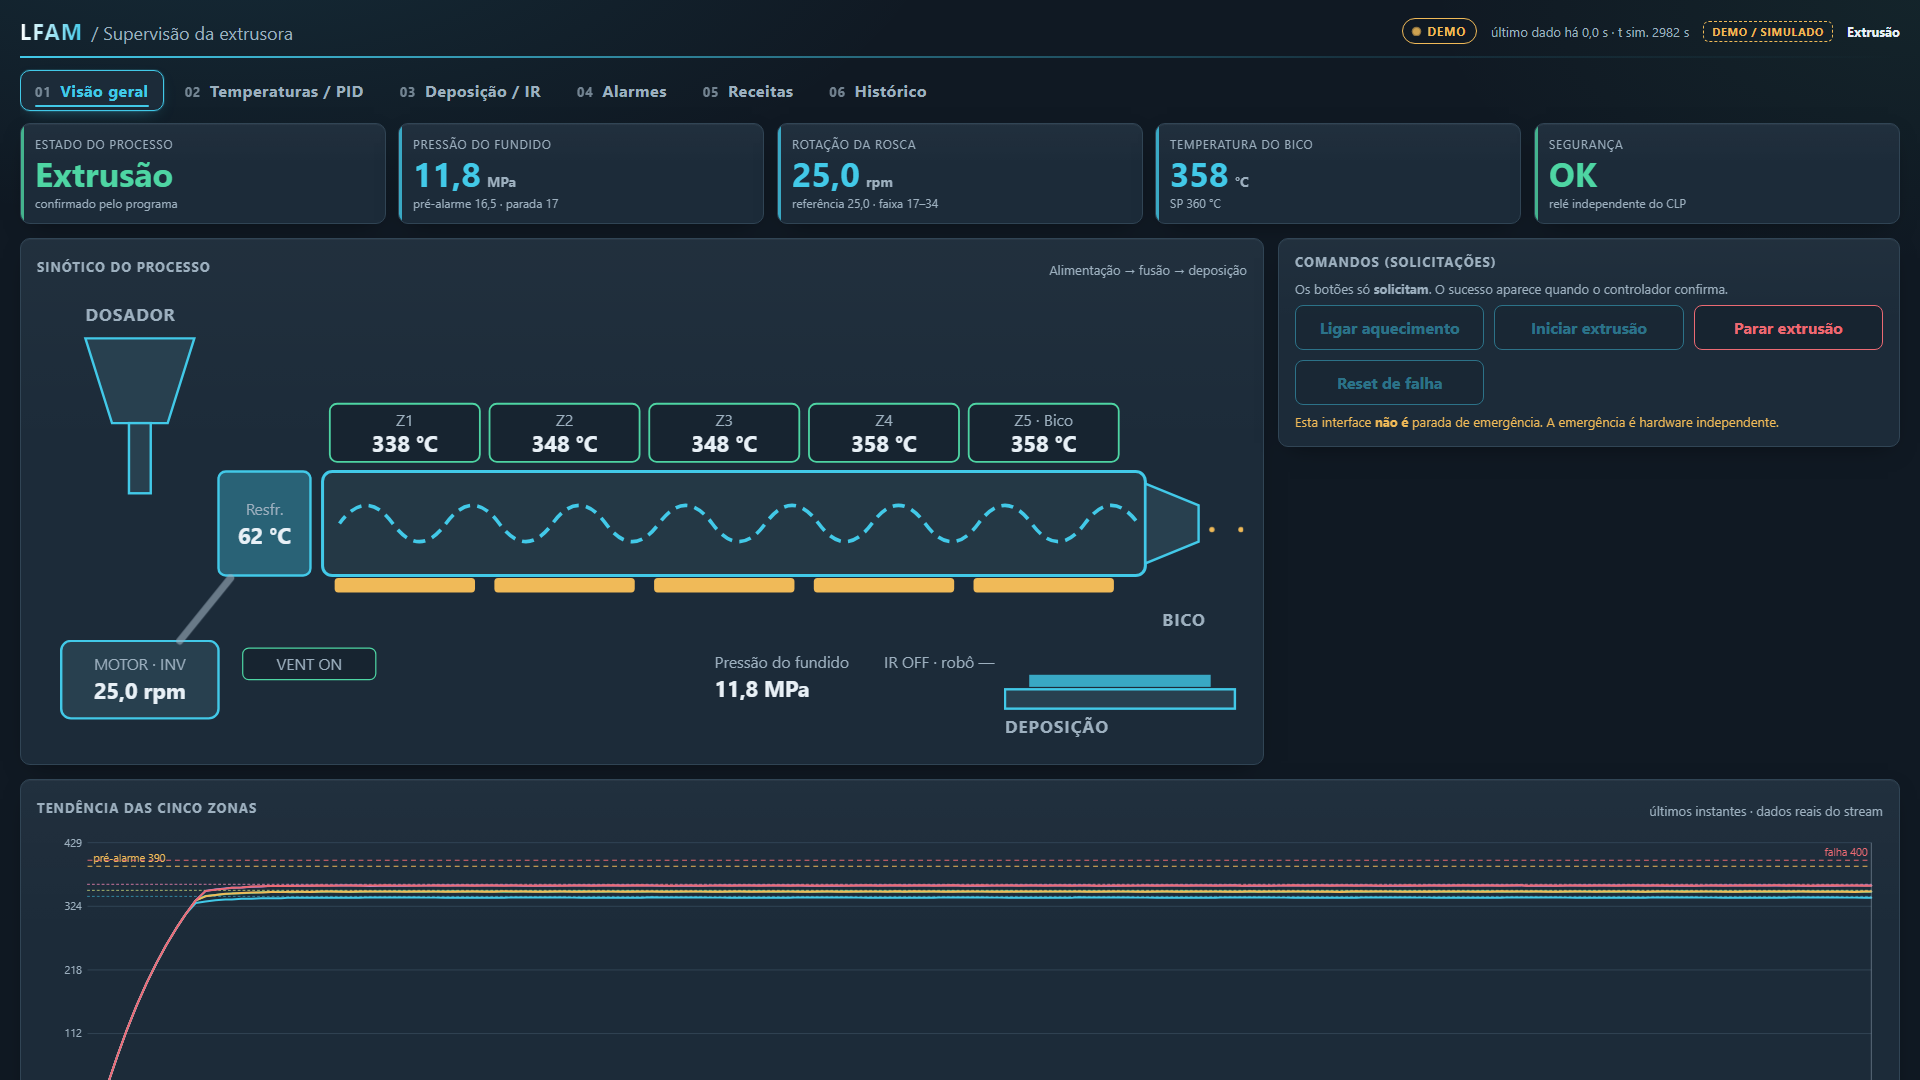
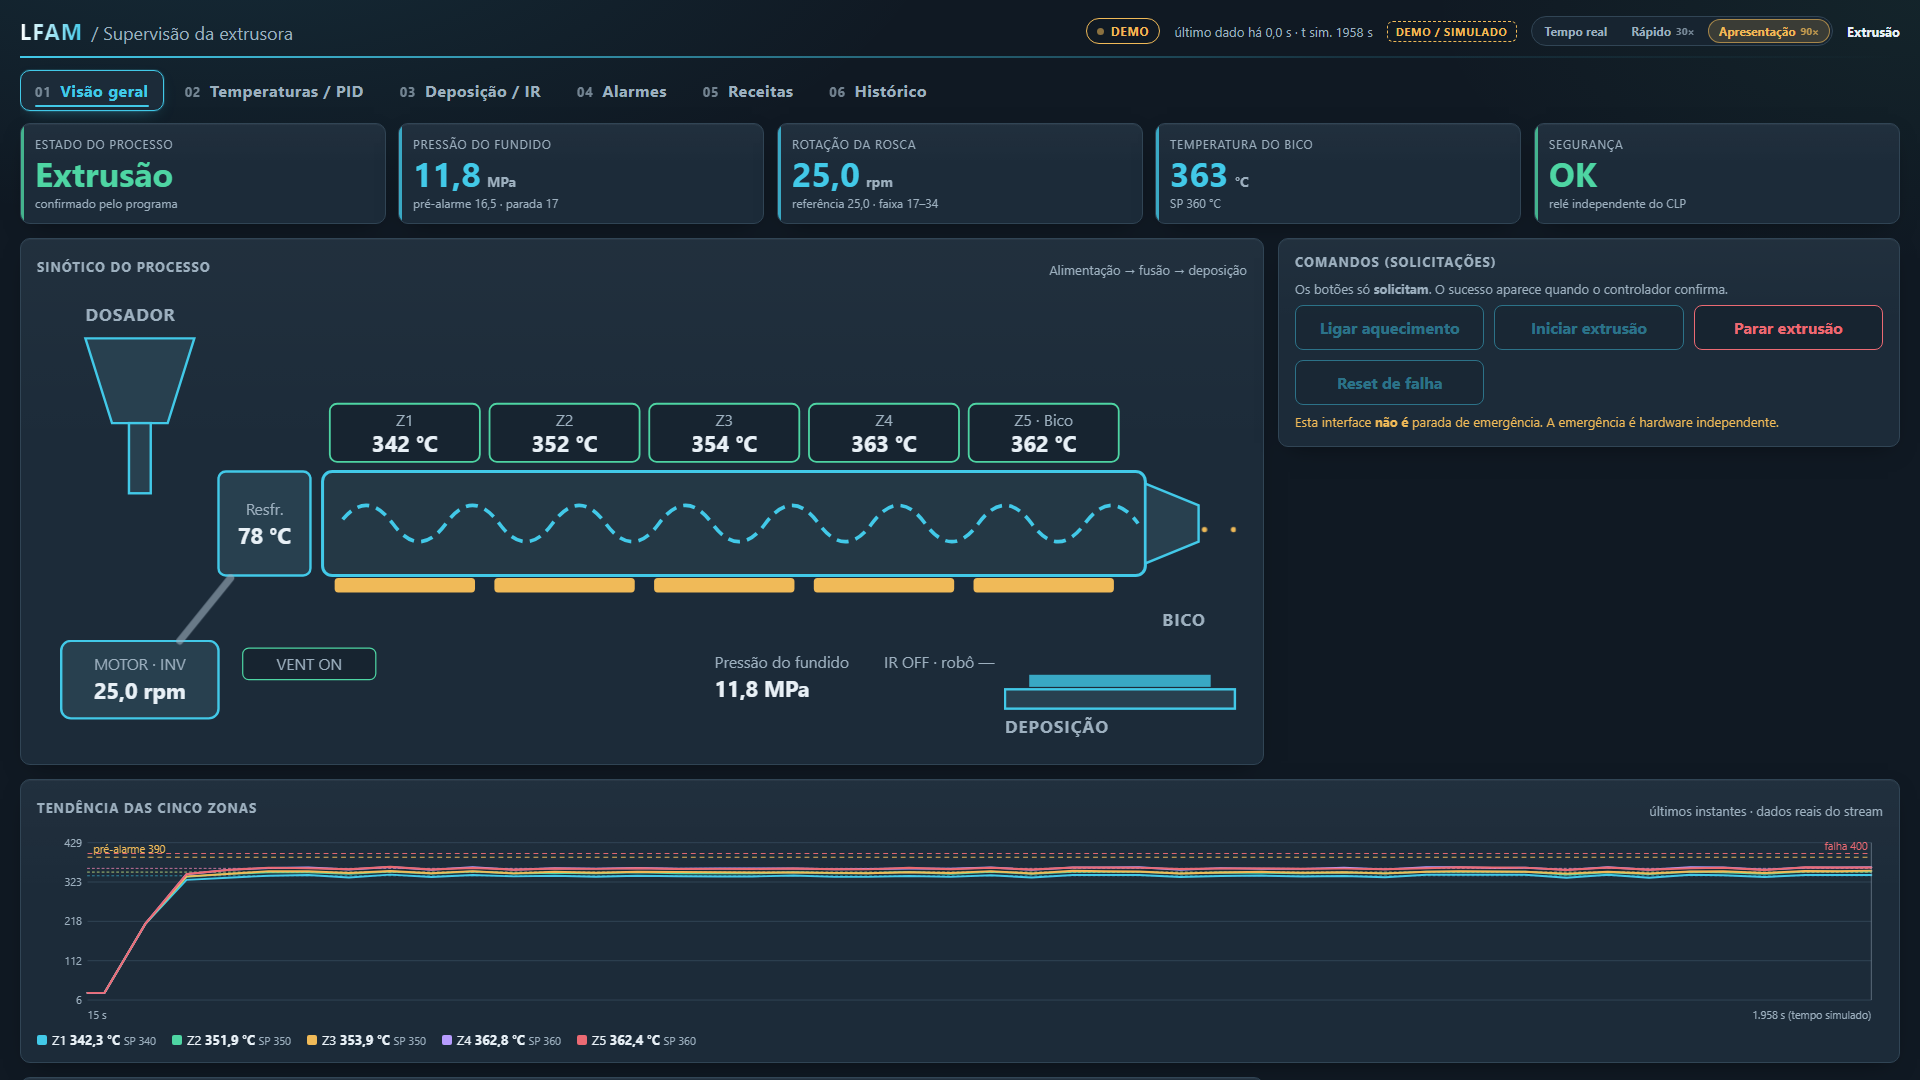
feat(scada): modo apresentacao — seletor de velocidade da simulacao (1x, 30x, 90x) no DEMO, relogio com acumulador e passos maiores; E2E e testes

diff --git a/scada/web/e2e/scada.spec.ts b/scada/web/e2e/scada.spec.ts
@@ -31,6 +31,11 @@ test("seis telas, comando confirmado pelo controlador, falha e sem comunicação
   await expect(page.locator(".link")).toHaveText("DEMO", { timeout: 15_000 });
   await expect(page.getByText("DEMO / SIMULADO").first()).toBeVisible();
 
+  // modo apresentacao: selecionavel no site (so DEMO); o relogio simulado passa a 90x
+  await page.getByRole("button", { name: /Apresentação/ }).click();
+  await expect(page.getByRole("button", { name: /Apresentação/ })).toHaveAttribute("aria-pressed", "true");
+  expect((await (await page.request.get("/api/state")).json()).time_scale).toBe(90);
+
   // estado inicial: desligado, K1 aberto; botao de extrusao desabilitado (programa nao esta PRONTO)
   await expect(page.getByRole("button", { name: "Iniciar extrusão" })).toBeDisabled();
 
@@ -39,8 +44,8 @@ test("seis telas, comando confirmado pelo controlador, falha e sem comunicação
   await expect(page.getByRole("button", { name: /Aguardando CLP|Confirmado/ })).toBeVisible();
   await expect(page.getByRole("button", { name: "✓ Confirmado" })).toBeVisible({ timeout: 10_000 });
 
-  // acelera ate PRONTO (encharque de 15 min em tempo simulado, fator 30x)
-  await expect(page.locator(".state")).toHaveText("Pronto", { timeout: 150_000 });
+  // modo apresentacao: encharque de 15 min simulados em poucos segundos reais
+  await expect(page.locator(".state")).toHaveText("Pronto", { timeout: 60_000 });
   await page.getByRole("button", { name: "Iniciar extrusão" }).click();
   await expect(page.locator(".state")).toHaveText("Extrusão", { timeout: 15_000 });
   await page.waitForTimeout(8_000);

diff --git a/scada/web/src/components/SpeedControl.tsx b/scada/web/src/components/SpeedControl.tsx
@@ -1,0 +1,28 @@
+import { useState } from "react";
+import { api } from "../api";
+
+const PRESETS = [
+  { scale: 1, label: "Tempo real", hint: "1×: o relógio simulado anda como o relógio da parede" },
+  { scale: 30, label: "Rápido", hint: "30×: encharque de 15 min em ~30 s" },
+  { scale: 90, label: "Apresentação", hint: "90×: da partida à extrusão em ~15 s — a demonstração inteira cabe em ~2 min" },
+] as const;
+
+/** Velocidade do relógio SIMULADO. Só existe no DEMO: no modo CLP os temporizadores são os do Ladder, em tempo real. */
+export function SpeedControl({ mode, scale, onLog }: { mode: "DEMO" | "PLC"; scale: number; onLog: (k: "COMANDO", t: string) => void }) {
+  const [busy, setBusy] = useState(false);
+  if (mode === "PLC") return <span className="speed real" title="Os temporizadores são os do Ladder no CLP: não dá para acelerar">tempo real (CLP)</span>;
+  const pick = async (s: number) => {
+    if (busy || s === scale) return;
+    setBusy(true);
+    try { const r = await api.speed(s); onLog("COMANDO", r.accepted ? `velocidade da simulação: ${s}×` : `velocidade recusada: ${r.message}`); } finally { setBusy(false); }
+  };
+  return (
+    <div className={`speed ${scale >= 90 ? "present" : ""}`} role="group" aria-label="Velocidade da simulação">
+      {PRESETS.map((p) => (
+        <button key={p.scale} type="button" aria-pressed={scale === p.scale} title={p.hint} onClick={() => pick(p.scale)} disabled={busy}>
+          {p.label}{p.scale > 1 && <small>{p.scale}×</small>}
+        </button>
+      ))}
+    </div>
+  );
+}

diff --git a/scada/web/src/styles.css b/scada/web/src/styles.css
@@ -197,3 +197,13 @@ input:focus-visible, select:focus-visible { border-color: var(--cyan); box-shado
 @media (prefers-reduced-motion: reduce) {
   *, *::before, *::after { animation: none !important; transition: none !important; }
 }
+
+/* velocidade da simulacao (modo apresentacao) */
+.speed { display: inline-flex; border: 1px solid var(--line); border-radius: 999px; padding: 2px; background: var(--panel-2); gap: 2px; }
+.speed button { border: 0; background: transparent; color: var(--muted); font-size: 12px; font-weight: 650; padding: 4px 11px; border-radius: 999px; cursor: pointer; transition: background .2s, color .2s, box-shadow .2s; display: inline-flex; gap: 5px; align-items: center; }
+.speed button small { color: inherit; opacity: .75; font-weight: 700; }
+.speed button:hover:not(:disabled) { color: var(--text); }
+.speed button[aria-pressed="true"] { background: rgba(66,201,232,.16); color: var(--cyan); box-shadow: inset 0 0 0 1px rgba(66,201,232,.5); }
+.speed.present button[aria-pressed="true"] { background: rgba(240,186,88,.16); color: var(--amber); box-shadow: inset 0 0 0 1px rgba(240,186,88,.6); }
+.speed.real { border-style: dashed; padding: 4px 11px; font-size: 12px; color: var(--muted); }
+@media (max-width: 600px) { .speed button { padding: 4px 8px; } .speed button small { display: none; } }

diff --git a/scada/web/src/App.tsx b/scada/web/src/App.tsx
@@ -8,6 +8,7 @@ import { Alarms } from "./screens/Alarms";
 import { Recipes } from "./screens/Recipes";
 import { History } from "./screens/History";
 import { STATE_LABEL } from "./format";
+import { SpeedControl } from "./components/SpeedControl";
 
 const TABS = [
   { id: "overview", label: "Visão geral" },
@@ -46,6 +47,7 @@ export default function App() {
           <span className={`link ${tone}`}>{status}</span>
           {snap && <span className="meta">último dado há {age}{stale ? "" : ` · t sim. ${snap.t_sim_s.toFixed(0)} s`}</span>}
           {snap?.mode === "DEMO" && <span className="badge-demo">DEMO / SIMULADO</span>}
+          {snap && <SpeedControl mode={snap.mode} scale={snap.time_scale ?? 1} onLog={log} />}
           {snap?.mode === "PLC" && <span className="badge-demo">LÓGICA NO CLP · PLANTA SIMULADA</span>}
           {snap && <span className={`state ${snap.state === "FALHA_TRAVADA" ? "bad" : ""}`}>{stale ? "estado desatualizado" : STATE_LABEL[snap.state]}</span>}
         </div>

diff --git a/scada/web/src/api.ts b/scada/web/src/api.ts
@@ -13,6 +13,7 @@ export const api = {
   command: (name: string) => post<{ accepted: boolean; message: string }>("/api/command", { name }),
   setpoint: (key: string, value: number) => post<{ accepted: boolean; message: string }>("/api/setpoint", { key, value }),
   fault: (fault: string, on: boolean) => post<{ accepted: boolean; message: string }>("/api/demo/fault", { fault, on }),
+  speed: (scale: number) => post<{ accepted: boolean; message: string; time_scale: number }>("/api/demo/speed", { scale }),
   robot: (r: { moving?: boolean; cmd?: boolean; auto?: boolean }) => post<{ accepted: boolean }>("/api/demo/robot", r),
 };
 

diff --git a/scada/web/src/types.ts b/scada/web/src/types.ts
@@ -6,6 +6,7 @@ export interface Snapshot {
   plc_connected: boolean;
   link_error?: string;
   t_sim_s: number;
+  time_scale?: number;
   timestamp: number;
   state: ProcState;
   temps: Record<"Z1" | "Z2" | "Z3" | "Z4" | "Z5", number>;

diff --git a/backend/app.py b/backend/app.py
@@ -5,6 +5,7 @@ Nao ha rota que acione motor/SSR diretamente."""
 from __future__ import annotations
 
 import asyncio
+import math
 import time
 import contextlib
 import os
@@ -25,6 +26,10 @@ class Command(BaseModel):
 class Setpoint(BaseModel):
     key: str
     value: float
+
+
+class Speed(BaseModel):
+    scale: float
 
 
 class Fault(BaseModel):
@@ -51,13 +56,36 @@ def build_engine() -> DemoEngine:
     return DemoEngine(transport=DemoTransport())
 
 
+SPEED_MIN, SPEED_MAX, MAX_STEPS_PER_TICK = 1.0, 150.0, 30
+
+
+def step_dt(scale: float) -> float:
+    """Tamanho do passo de simulacao (s simulados). Ate 30x: 0,1 s (identico ao comportamento original); acima, passos maiores
+    (0,3 s a 90x, 0,5 s a 150x): a constante termica das zonas e de 60 s e os TON integram dt, entao fisica e logica nao mudam."""
+    return min(0.5, max(0.1, scale * TICK_S / MAX_STEPS_PER_TICK))
+
+
+def advance(debt: float, wall: float, scale: float) -> tuple:
+    """Relogio com acumulador: `wall` segundos reais viram `scale*wall` segundos simulados DEVIDOS; devolve (passos, dt, divida restante).
+    Nenhum tempo e perdido nem sobra (sem deriva); se o computador nao acompanha, o excesso e descartado (velocidade efetiva cai)."""
+    dt = step_dt(scale)
+    debt += scale * wall
+    n = int(debt // dt)
+    if n > MAX_STEPS_PER_TICK:
+        n, debt = MAX_STEPS_PER_TICK, dt          # atrasado: descarta o excesso
+    else:
+        debt -= n * dt
+    return n, dt, debt
+
+
 def create_app(engine: DemoEngine | None = None, autostart: bool = True) -> FastAPI:
     eng = engine or build_engine()
     plc = eng.transport.mode == "PLC"
-    speed = 1.0 if plc else float(os.environ.get("LFAM_TIME_SCALE", "1"))   # PLC roda em tempo real (o CLP tem o proprio ciclo)
+    eng.time_scale = 1.0 if plc else min(SPEED_MAX, max(SPEED_MIN, float(os.environ.get("LFAM_TIME_SCALE", "1"))))   # PLC: tempo real (o CLP tem o proprio ciclo)
 
     async def loop():
         last = time.monotonic()
+        debt = 0.0
         while True:
             if plc and not eng.transport.connected:
                 try:
@@ -76,9 +104,12 @@ def create_app(engine: DemoEngine | None = None, autostart: bool = True) -> Fast
                 last = now
                 await asyncio.to_thread(eng.step, dt)
             else:
-                for _ in range(max(1, int(round(speed)))):
-                    eng.step(TICK_S)
-            await asyncio.sleep(TICK_S if not plc else 0.05)   # PLC: no maximo ~20 leituras/s (o ciclo do CLP e 100 ms)
+                now = time.monotonic()
+                n, dt, debt = advance(debt, min(now - last, 0.5), eng.time_scale)
+                last = now
+                for _ in range(n):
+                    eng.step(dt)
+            await asyncio.sleep(0.02 if not plc else 0.05)   # PLC: no maximo ~20 leituras/s (o ciclo do CLP e 100 ms)
 
     @contextlib.asynccontextmanager
     async def lifespan(_: FastAPI):
@@ -119,6 +150,17 @@ def create_app(engine: DemoEngine | None = None, autostart: bool = True) -> Fast
     def fault(f: Fault):
         ok, msg = eng.inject(f.fault, f.on)
         return {"accepted": ok, "message": msg, "mode": eng.transport.mode, "target": "planta simulada"}
+
+    @app.post("/api/demo/speed")
+    def speed(sp: Speed):
+        """Velocidade do relogio SIMULADO (modo apresentacao). So no DEMO: no modo PLC os temporizadores sao os do CLP, em tempo real."""
+        if plc:
+            return {"accepted": False, "message": "modo CLP roda em tempo real (os temporizadores sao os do Ladder)", "time_scale": 1.0}
+        if not SPEED_MIN <= sp.scale <= SPEED_MAX:
+            return {"accepted": False, "message": f"velocidade fora da faixa {SPEED_MIN:g}-{SPEED_MAX:g}x", "time_scale": eng.time_scale}
+        eng.time_scale = float(sp.scale)
+        eng._log(f"velocidade da simulacao {sp.scale:g}x")
+        return {"accepted": True, "message": "ok", "time_scale": eng.time_scale}
 
     @app.post("/api/demo/robot")
     def robot(r: RobotState):

diff --git a/tests/test_backend_demo.py b/tests/test_backend_demo.py
@@ -142,3 +142,59 @@ def test_stop_is_a_one_second_pulse_and_does_not_latch_the_stop_button():
     assert eng.snapshot()["state"] == "PRONTO", "parou"
     eng.request("BT_LIGA"); run(eng, 3, dt=0.5)
     assert eng.snapshot()["state"] == "EXTRUSAO", "STOP nao pode ficar preso e bloquear nova partida"
+
+
+# ---------------------------------------------------------------- modo apresentacao (velocidade do relogio simulado)
+def test_step_size_keeps_original_up_to_30x_and_grows_above():
+    from backend.app import step_dt
+    assert step_dt(1) == 0.1 and abs(step_dt(30) - 0.1) < 1e-9
+    assert abs(step_dt(90) - 0.3) < 1e-9 and abs(step_dt(150) - 0.5) < 1e-9
+
+
+def test_clock_accumulator_advances_exactly_scale_times_wall_time_without_drift():
+    from backend.app import advance
+    for scale in (1, 5, 30, 90, 150):
+        debt, sim = 0.0, 0.0
+        for _ in range(500):                      # 500 iteracoes de 20 ms reais = 10 s reais
+            n, dt, debt = advance(debt, 0.02, scale)
+            sim += n * dt
+        assert abs((sim + debt) - scale * 10.0) < 1e-6, scale     # nada se perde
+        assert abs(sim - scale * 10.0) <= step_dt_of(scale), scale  # sobra no maximo um passo
+
+
+def step_dt_of(scale):
+    from backend.app import step_dt
+    return step_dt(scale) + 1e-9
+
+
+def test_clock_accumulator_drops_backlog_when_machine_is_too_slow():
+    from backend.app import advance, MAX_STEPS_PER_TICK
+    n, dt, debt = advance(0.0, 0.5, 150)       # 75 s simulados devidos de uma vez: >> 30 passos de 0,5 s
+    assert n == MAX_STEPS_PER_TICK and debt <= dt
+
+
+def test_speed_endpoint_demo_accepts_in_range_and_rejects_outside():
+    with TestClient(create_app(DemoEngine(), autostart=False)) as c:
+        assert c.get("/api/state").json()["time_scale"] == 1.0
+        r = c.post("/api/demo/speed", json={"scale": 90}).json()
+        assert r["accepted"] and r["time_scale"] == 90.0 and c.get("/api/state").json()["time_scale"] == 90.0
+        assert not c.post("/api/demo/speed", json={"scale": 0.5}).json()["accepted"]
+        assert not c.post("/api/demo/speed", json={"scale": 1000}).json()["accepted"]
+        assert c.get("/api/state").json()["time_scale"] == 90.0, "valor recusado nao altera a velocidade"
+
+
+def test_presentation_speed_does_not_change_the_process_outcome():
+    """Mesma partida em 1x (passos de 0,1 s) e com passos de 0,3 s: PRONTO e extrusao chegam ao mesmo estado fisico aproximado."""
+    def go(dt):
+        eng = DemoEngine()
+        eng.request("BT_AQUEC")
+        t = 0.0
+        while t < 1200 and eng.snapshot()["state"] != "PRONTO":
+            eng.step(dt)
+            t += dt
+        return eng, t
+    e1, t1 = go(0.1)
+    e3, t3 = go(0.3)
+    assert e1.snapshot()["state"] == "PRONTO" == e3.snapshot()["state"]
+    assert abs(t1 - t3) < 15, (t1, t3)      # encharque de 900 s: diferenca de poucos segundos
+    assert all(abs(e1.snapshot()["temps"][z] - e3.snapshot()["temps"][z]) < 5 for z in ("Z1", "Z2", "Z3", "Z4", "Z5"))

diff --git a/backend/engine.py b/backend/engine.py
@@ -30,6 +30,7 @@ class DemoEngine:
         self.duty = [0.0] * ZONES
         self.duty_ir = 0.0
         self.pulses: dict = {}
+        self.time_scale = 1.0         # velocidade do relogio simulado (so DEMO; modo apresentacao)
         self.estop_test = False       # emergencia LOGICA de teste (nao substitui a fisica)
         self.disj_open = False        # disjuntor do aquecimento aberto (DEMO/ensaio)
         self.robo_mov = False
@@ -195,7 +196,7 @@ class DemoEngine:
                 "mode": self.transport.mode, "link_error": self.link_error,
                 "source": ("simulacao (programa Ladder gerado em avaliador Python; NAO e o CLP)" if self.transport.mode == "DEMO"
                            else "valores lidos do CODESYS Control Win via OPC UA (ponte de desenvolvimento)"),
-                "plc_connected": self.transport.mode == "PLC" and self.transport.healthy, "t_sim_s": round(self.t, 2), "timestamp": time.time(), "state": state,
+                "time_scale": self.time_scale, "plc_connected": self.transport.mode == "PLC" and self.transport.healthy, "t_sim_s": round(self.t, 2), "timestamp": time.time(), "state": state,
                 "temps": {f"Z{z}": round(e.get(f"TT_Z{z}", 0.0), 1) for z in range(1, 6)},
                 "setpoints": {f"Z{z}": self.sp_z[z - 1] for z in range(1, 6)} | {"RPM": self.sp_rpm, "IR": self.sp_ir},
                 "ssr_duty": {f"Z{z}": round(self.duty[z - 1], 3) for z in range(1, 6)} | {"IR": round(self.duty_ir, 3)},

diff --git a/codesys/generator/networks_logic.py b/codesys/generator/networks_logic.py
@@ -1,5 +1,5 @@
 """Redes puramente booleanas do LFAM: 04, 05, 07 e 10.
-Reset de falha: so com M_CAUSA = FALSE (decisao D3 em docs/SOURCE_RECONCILIATION.md)."""
+Reset de falha: so com M_CAUSA = FALSE (decisao D3 em docs/academico/SOURCE_RECONCILIATION.md)."""
 from .ld import C, S, P, Rung, Coil, Set, Reset, variables_of
 
 # Causas criticas, com polaridade corrigida (SEG_OK e MOT_SOBRETEMP sao ativos-baixos).
